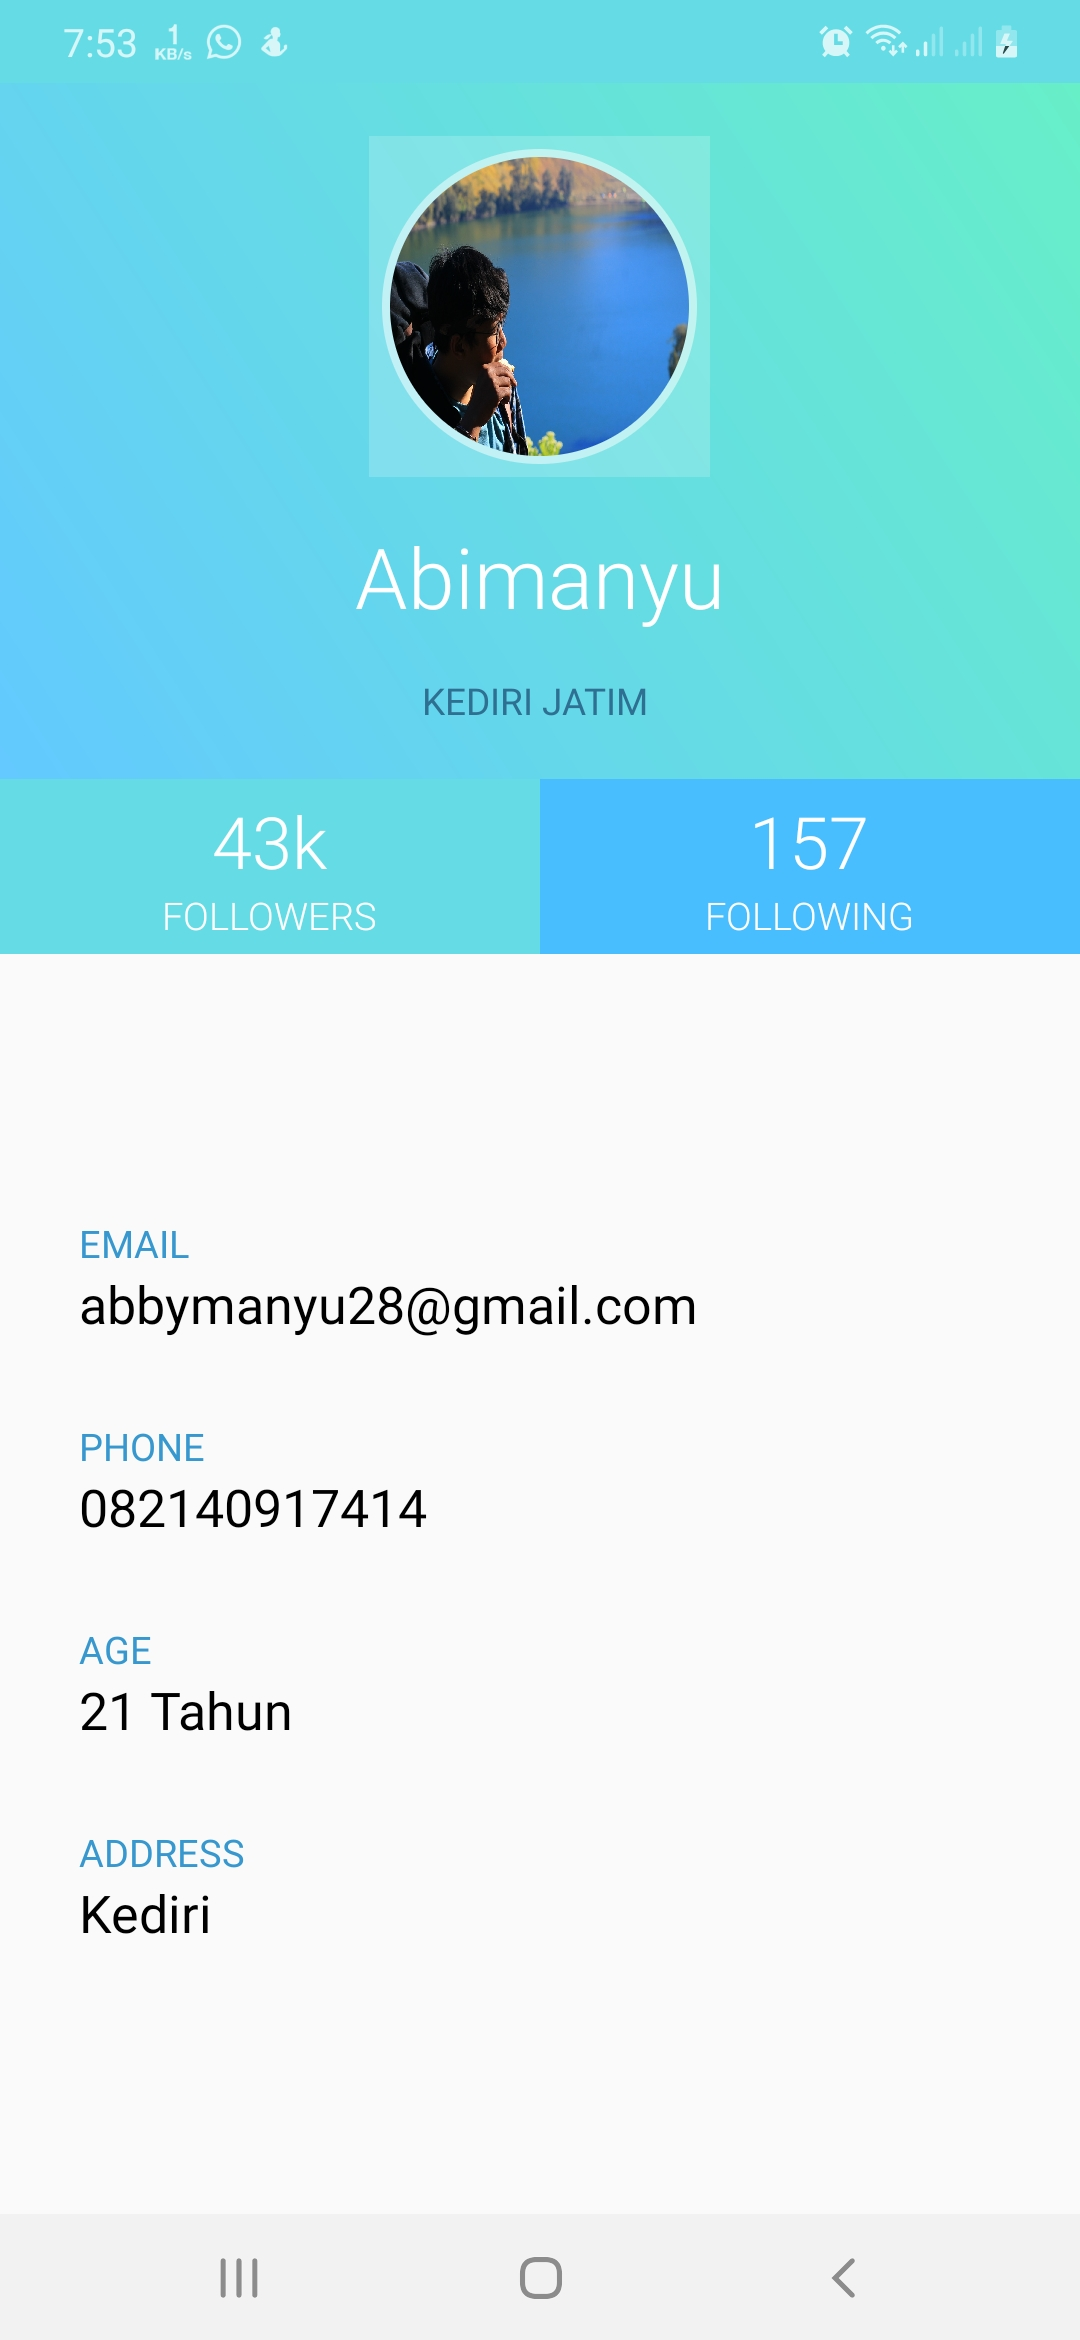
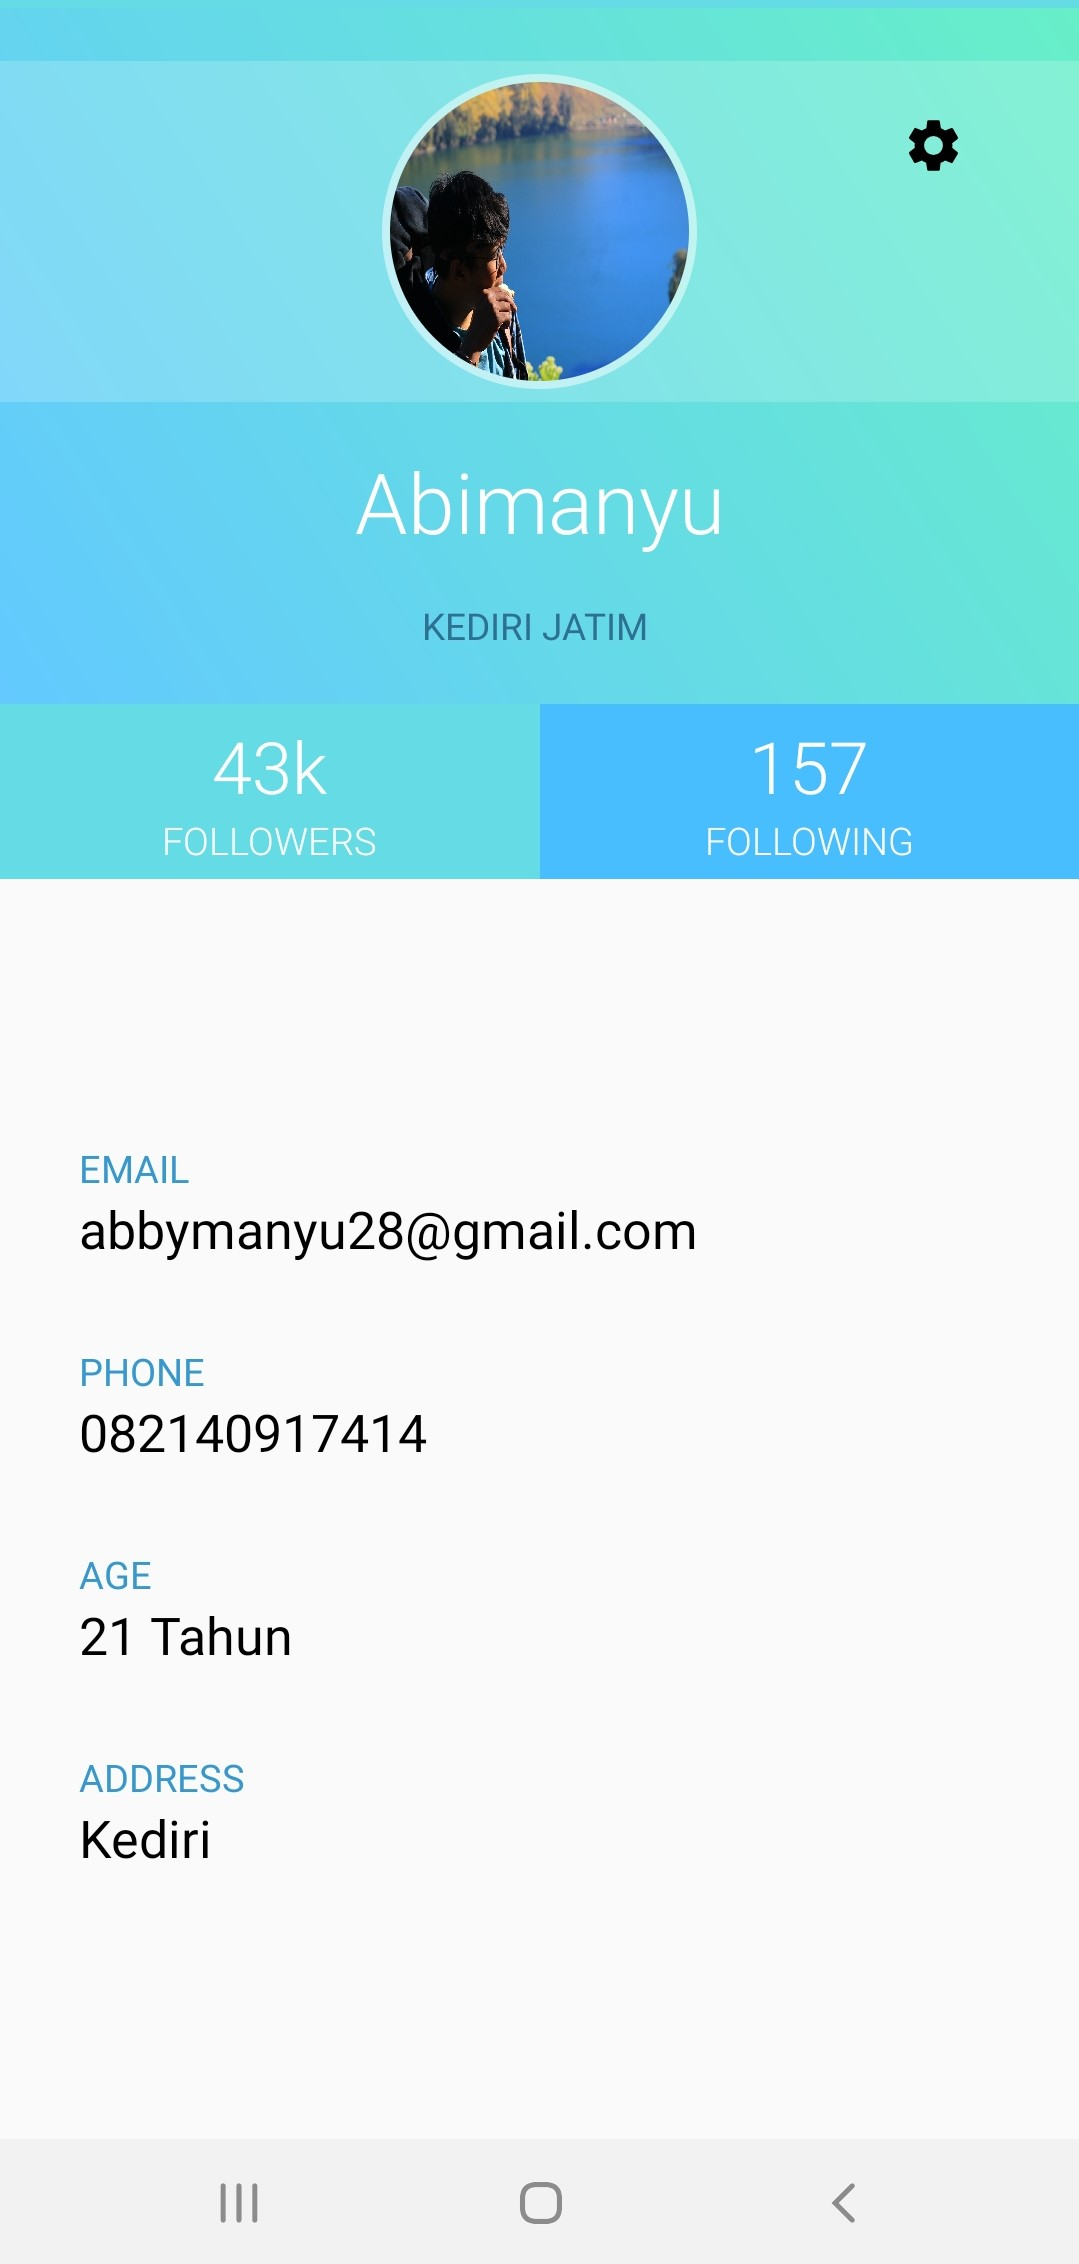
tugas1 bahasa setting

diff --git a/app/src/main/java/com/example/profil/AppSetting.java b/app/src/main/java/com/example/profil/AppSetting.java
@@ -1,0 +1,59 @@
+package com.example.profil;
+
+import android.content.Intent;
+import android.os.Bundle;
+import android.provider.Settings;
+
+import androidx.annotation.Nullable;
+import androidx.appcompat.app.AppCompatActivity;
+import androidx.appcompat.widget.Toolbar;
+import androidx.preference.Preference;
+import androidx.preference.PreferenceFragmentCompat;
+
+import java.util.Objects;
+
+public class AppSetting extends AppCompatActivity {
+    Toolbar toolbar;
+
+    @Override
+    protected void onCreate(@Nullable Bundle savedInstanceState) {
+        super.onCreate(savedInstanceState);
+        setContentView(R.layout.appsetting);
+        toolbar = findViewById(R.id.toolbar);
+        setSupportActionBar(toolbar);
+        getSupportActionBar().setDisplayHomeAsUpEnabled(true);
+        Objects.requireNonNull(getSupportActionBar()).setTitle(getResources().getString(R.string.action_setting));
+        getSupportActionBar().setDisplayHomeAsUpEnabled(true);
+        getSupportFragmentManager()
+                .beginTransaction()
+                .replace(R.id.settings_container, new MyPreferenceFragment())
+                .commit();
+
+    }
+    public boolean onSupportNavigateUp() {
+        onBackPressed();
+        return super.onSupportNavigateUp();
+    }
+    public static class MyPreferenceFragment extends PreferenceFragmentCompat implements Preference.OnPreferenceClickListener {
+        String setting_locale;
+
+        @Override
+        public boolean onPreferenceClick(Preference preference) {
+            String key = preference.getKey();
+
+            if (key.equals(setting_locale)) {
+                Intent intent = new Intent(Settings.ACTION_LOCALE_SETTINGS);
+                startActivity(intent);
+                return true;
+            }
+
+            return false;
+        }
+        public void onCreatePreferences(Bundle savedInstanceState, String rootKey) {
+            setPreferencesFromResource(R.xml.app_settings, rootKey);
+            //reminder_upcoming = findPreference(this.getResources().getString(R.string.key_upcoming_reminder));
+            setting_locale = this.getResources().getString(R.string.key_setting_locale);
+            Objects.requireNonNull(findPreference(setting_locale)).setOnPreferenceClickListener(this);
+        }
+    }
+}

diff --git a/app/src/main/java/com/example/profil/MainActivity.java b/app/src/main/java/com/example/profil/MainActivity.java
@@ -2,13 +2,32 @@ package com.example.profil;
 
 import androidx.appcompat.app.AppCompatActivity;
 
+import android.content.Intent;
 import android.os.Bundle;
+import android.view.View;
+import android.widget.ImageView;
 
-public class MainActivity extends AppCompatActivity {
-
+public class MainActivity extends AppCompatActivity implements View.OnClickListener {
+    ImageView ivSetting;
     @Override
     protected void onCreate(Bundle savedInstanceState) {
         super.onCreate(savedInstanceState);
         setContentView(R.layout.activity_main);
+        ivSetting = findViewById(R.id.ivSetting);
+        ivSetting.setOnClickListener(this);
+    }
+
+    @Override
+    public void onClick(View v) {
+        switch (v.getId()) {
+            case R.id.btn_follow:
+                onStop();
+                break;
+            case R.id.ivSetting:
+                Intent setting = new Intent(MainActivity.this, AppSetting.class);
+                startActivity(setting);
+                return;
+        }
     }
 }
+
